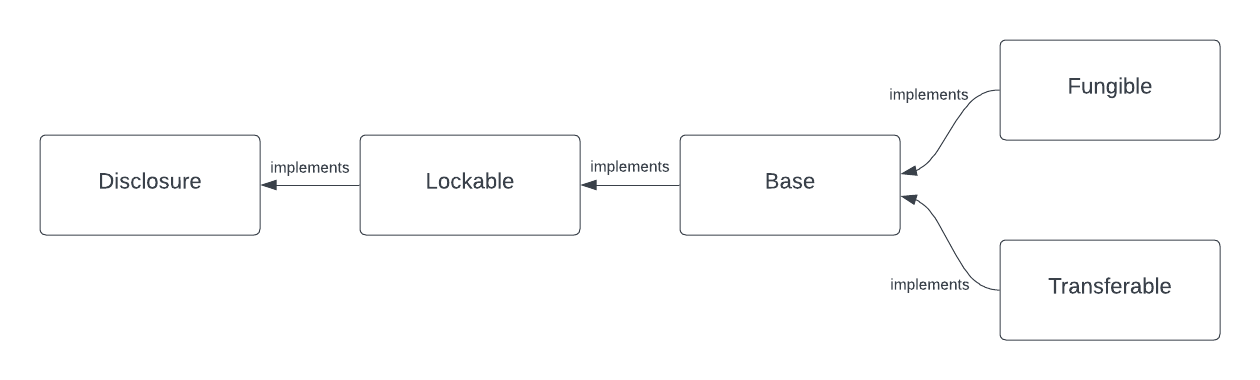
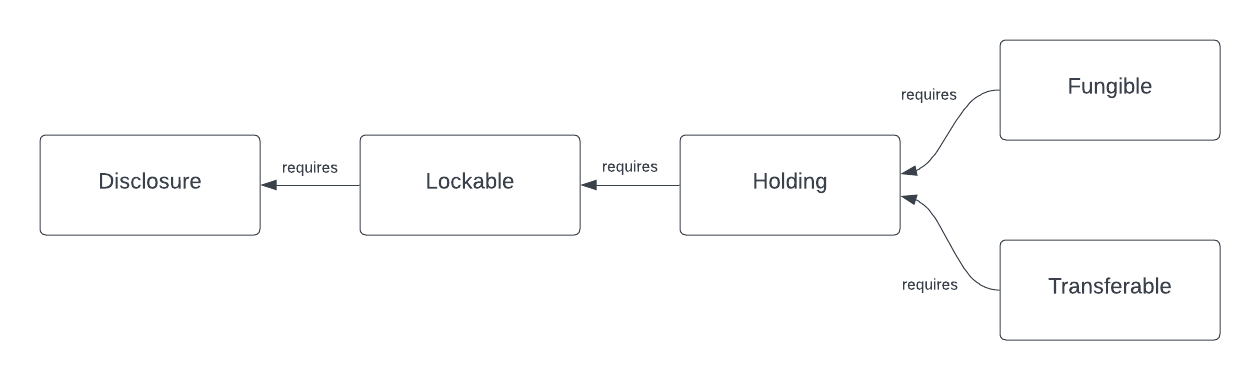
Fix image

diff --git a/docs/2.8.0/docs/daml-finance/tutorials/getting-started/transfer.rst b/docs/2.8.0/docs/daml-finance/tutorials/getting-started/transfer.rst
@@ -66,8 +66,8 @@ used by our holding implementation.
 .. image:: ../../images/interface_hierarchy.png
   :alt: A diagram of the interface hierarchy. From left to right, Disclosure, Lockable, Holding,
         and Transferable are each linked by arrows pointing left. Additionally, Fungible is located
-        above from Transferable, and has an arrow pointing to Holding. All arrows are labelled
-        Implements.
+        above from Transferable, and has an arrow pointing to Holding. All arrows are labeled
+        "requires".
 
 We use ``coerceInterfaceContractId`` to convert the
 :ref:`Holding.I <type-daml-finance-interface-holding-holding-holding-36312>`
